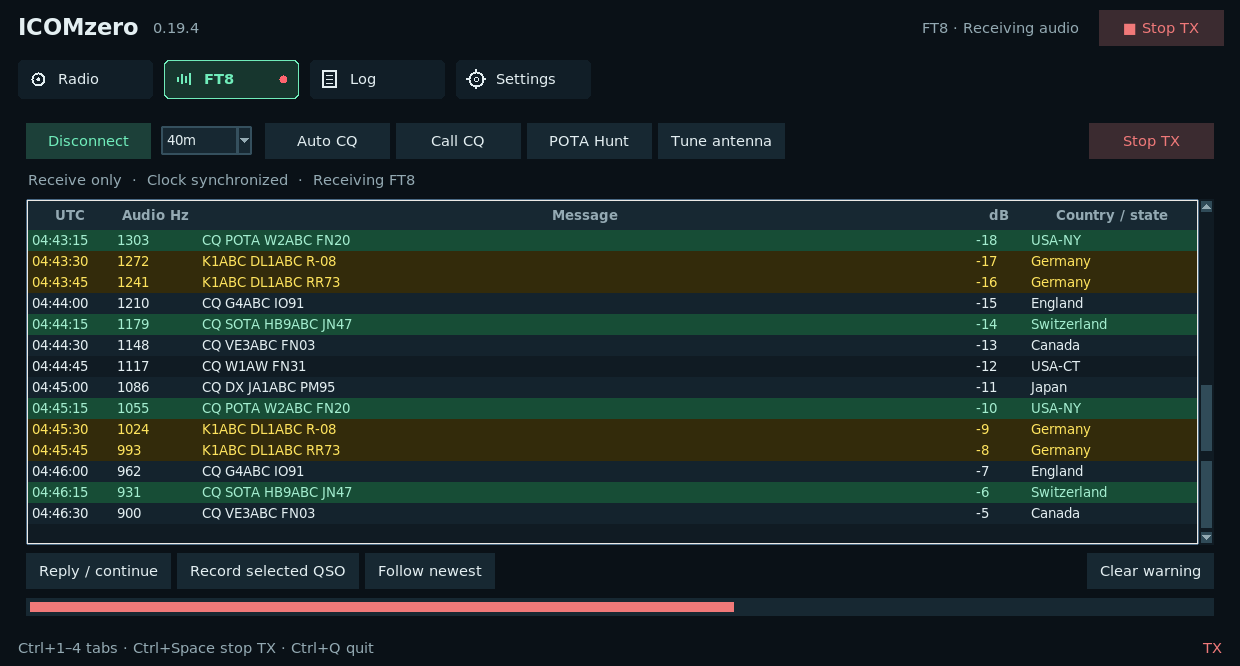
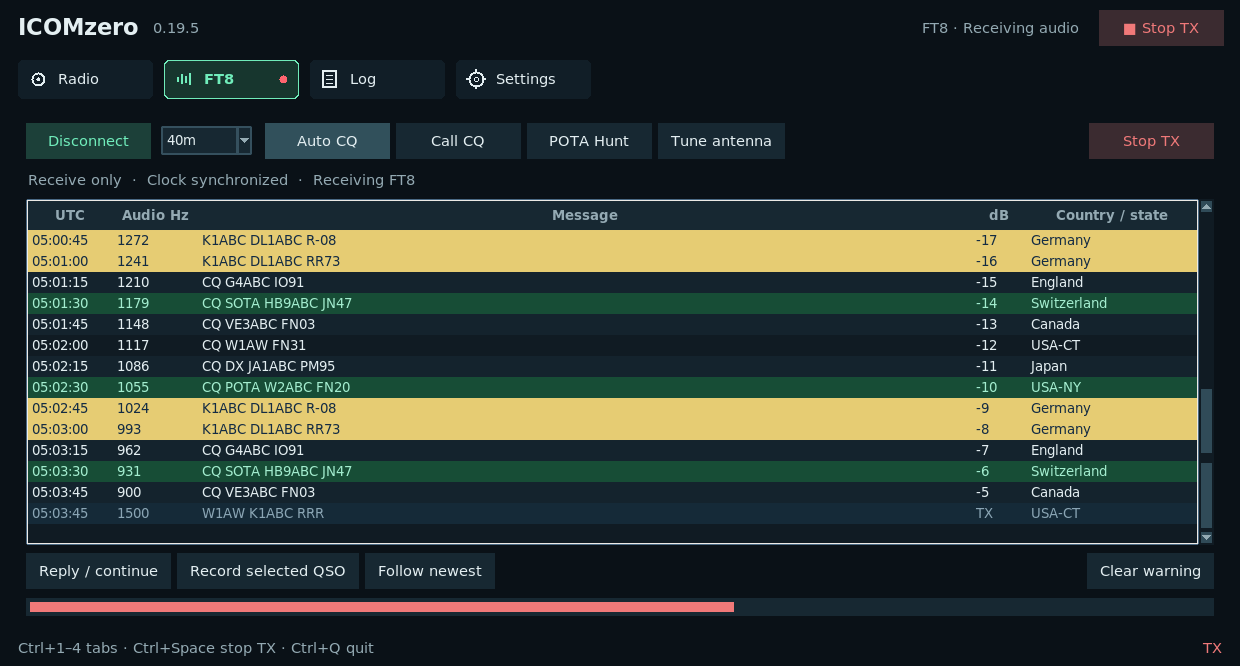
Distinguish incoming FT8 replies from local transmissions

diff --git a/app/desktop_ui.py b/app/desktop_ui.py
@@ -226,7 +226,7 @@ class DesktopApp:
         self.style.map(
             "Treeview",
             background=[("selected", "#315666")],
-            foreground=[],
+            foreground=[("selected", TEXT)],
         )
         self.style.configure(
             "Horizontal.TProgressbar", background=GREEN, troughcolor=CARD
@@ -771,9 +771,9 @@ class DesktopApp:
             (85, 85, 510, 55, 170),
         )
         self.decode_tree.tag_configure(
-            "own", background="#332b0b", foreground="#ffe45e"
+            "own", background="#e6cc73", foreground="#132b43"
         )
-        self.decode_tree.tag_configure("tx", background="#173e5a", foreground="#9edfff")
+        self.decode_tree.tag_configure("tx", background="#152a38", foreground="#8ba6b5")
         self.decode_tree.tag_configure(
             "activation", background="#174d36", foreground="#a4eed0"
         )
@@ -1587,11 +1587,11 @@ class DesktopApp:
                 wanted.append(iid)
                 new[iid] = m
                 tag = (
-                    "own"
-                    if m.involves(own)
+                    "tx"
+                    if m.local_tx
                     else (
-                        "tx"
-                        if m.local_tx
+                        "own"
+                        if m.involves(own)
                         else (
                             "activation"
                             if activation_cq(m)

diff --git a/tests/test_native_focus.py b/tests/test_native_focus.py
@@ -43,7 +43,7 @@ class NativeFocus(unittest.TestCase):
 
 
 class CallsignRender(unittest.TestCase):
-    def test_received_and_local_tx_callsigns_use_yellow(self):
+    def test_incoming_replies_and_local_tx_have_distinct_colors(self):
         import runpy
         from pathlib import Path
         from PIL import ImageDraw, ImageFont
@@ -63,4 +63,4 @@ class CallsignRender(unittest.TestCase):
                 app["ft8_frame"](display, history, "K1ABC", True, "", 0.5)
             expected = ("TX " if local else "") + text
             calls = [c for c in draw.call_args_list if c.args[2] == expected]
-            self.assertEqual(calls[0].kwargs["fill"], "#ffe45e")
+            self.assertEqual(calls[0].kwargs["fill"], "#8ba6b5" if local else "#132b43")

diff --git a/tests/test_ft8_contact_ui.py b/tests/test_ft8_contact_ui.py
@@ -321,7 +321,7 @@ class PowerAndDisplay(unittest.TestCase):
                 module["ft8_frame"](display, history, "K1ABC", True, "", .5)
             calls = [c for c in draw.call_args_list if c.args[2] == text]
             self.assertEqual(len(calls), 1, extra)
-            self.assertEqual(calls[0].kwargs["fill"], "#ffe45e")
+            self.assertEqual(calls[0].kwargs["fill"], "#132b43")
             self.assertEqual(calls[0].kwargs["font"].size, 12)
 
 

diff --git a/app/ft8log.py b/app/ft8log.py
@@ -93,7 +93,7 @@ def request(url, data, form=False):
                 "application/x-www-form-urlencoded" if form else "application/json"
             ),
             "Accept": "application/json",
-            "User-Agent": "ICOMzero/0.19.4",
+            "User-Agent": "ICOMzero/0.19.5",
         },
     )
     with urllib.request.urlopen(req, timeout=10) as response:

diff --git a/app/version.py b/app/version.py
@@ -1,1 +1,1 @@
-VERSION = "0.19.4"
+VERSION = "0.19.5"

diff --git a/CHANGELOG.md b/CHANGELOG.md
@@ -1,5 +1,11 @@
 # Changelog
 
+## 0.19.5 — 2026-11-25
+
+- Distinguish incoming replies containing our callsign from our own FT8 transmissions on both platforms: yellowish reply backgrounds with dark blue text, and quieter dark blue TX rows with subdued blue-gray text.
+- Give local-TX styling priority even when its text contains our callsign; keep normal CQ and POTA/SOTA styling distinct. Preserve readable native selection colors.
+- Update renderer regressions; Cardputer hardware testing remains deferred while offline.
+
 ## 0.19.4 — 2026-11-24
 
 - Fix repeated uConsole interface KeyError warnings while native combo-box popdowns have focus. Query the Tcl focus path without converting internal windows into Python widgets; retain normal focus-loss key cleanup.
